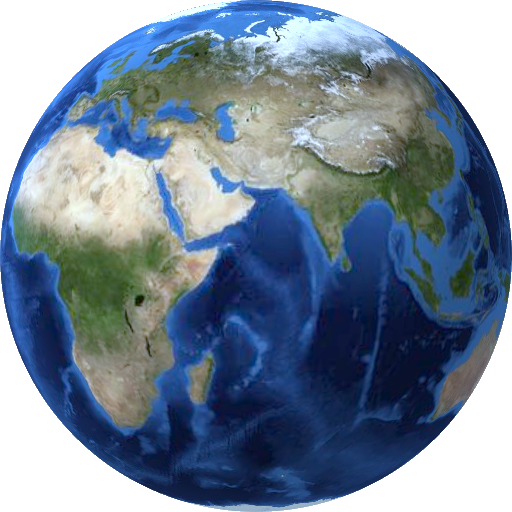
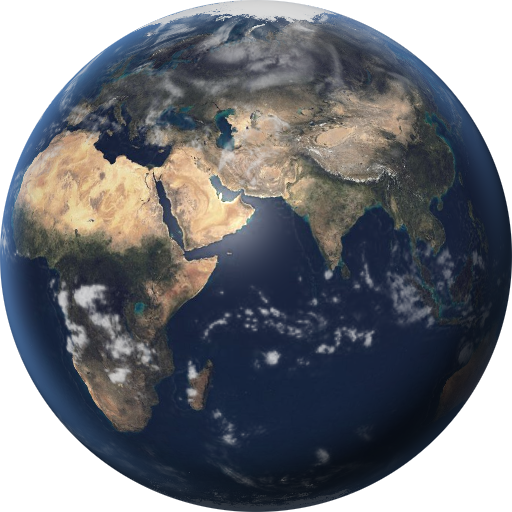
Реалистичная Земля: WebGL, карта поверхности, облака, блик на воде, дымка атмосферы

diff --git a/docs/index.html b/docs/index.html
@@ -1,13 +1,13 @@
 <!DOCTYPE html>
 <html lang="ru">
 <head>
-<meta http-equiv="Content-Security-Policy" content="default-src 'self'; script-src 'self' 'sha256-LUTzErjhHnRrTSoHmUKFDpyNeV/4OUWpXzcFNClkA0I=' 'sha256-yzOm8umFKUw+z6OY0+pDIKJ1qoYWew1WSMKk9chScoY=' 'sha256-ipzCulY10H61LrdNAgkQVf4tczyEXyoHOP65GfBKqf0=' 'sha256-Wf8lqQGZYsiFUJbzxkqj3WrnuC64bcMSBHVcuC52k9w=' 'sha256-syvLtHbgGRd/ctDJcXg+UHjQHI4I6fDriypiguPJXdU=' https://telegram.org; style-src 'self' 'unsafe-inline' https://fonts.googleapis.com; font-src 'self' https://fonts.gstatic.com data:; img-src 'self' data: https://coin-images.coingecko.com https://assets.coingecko.com https://flagcdn.com https://*.githubusercontent.com; connect-src 'self' https://api.gateio.ws wss://api.gateio.ws wss://ws-feed.exchange.coinbase.com wss://ws.kraken.com wss://data-stream.binance.vision https://data-api.binance.vision https://open.er-api.com https://api.coinbase.com https://api.country.is https://get.geojs.io; base-uri 'none'; form-action 'none'; object-src 'none'">
+<meta http-equiv="Content-Security-Policy" content="default-src 'self'; script-src 'self' 'sha256-LUTzErjhHnRrTSoHmUKFDpyNeV/4OUWpXzcFNClkA0I=' 'sha256-yzOm8umFKUw+z6OY0+pDIKJ1qoYWew1WSMKk9chScoY=' 'sha256-y2TdgFmWc310/CcaQSHO7L1AAl0D+/w4s2m3rcRSXTA=' 'sha256-Wf8lqQGZYsiFUJbzxkqj3WrnuC64bcMSBHVcuC52k9w=' 'sha256-syvLtHbgGRd/ctDJcXg+UHjQHI4I6fDriypiguPJXdU=' https://telegram.org; style-src 'self' 'unsafe-inline' https://fonts.googleapis.com; font-src 'self' https://fonts.gstatic.com data:; img-src 'self' data: https://coin-images.coingecko.com https://assets.coingecko.com https://flagcdn.com https://*.githubusercontent.com; connect-src 'self' https://api.gateio.ws wss://api.gateio.ws wss://ws-feed.exchange.coinbase.com wss://ws.kraken.com wss://data-stream.binance.vision https://data-api.binance.vision https://open.er-api.com https://api.coinbase.com https://api.country.is https://get.geojs.io; base-uri 'none'; form-action 'none'; object-src 'none'">
 <meta name="referrer" content="no-referrer">
 
 <meta charset="UTF-8">
 <script>try{if(!matchMedia("(prefers-reduced-motion: reduce)").matches&&!sessionStorage.cr_intro)document.documentElement.classList.add("intro")}catch(e){}</script>
 <script>(function(){try{var m=localStorage.cr_theme||"dark",d=document.documentElement;if(m==="auto")m=matchMedia("(prefers-color-scheme: light)").matches?"light":"dark";d.setAttribute("data-theme",m==="light"?"light":"dark")}catch(e){}})()</script>
-<meta name="app-version" content="84c456f68d">
+<meta name="app-version" content="467da123c5">
 <meta name="viewport" content="width=device-width,initial-scale=1,viewport-fit=cover">
 <meta name="theme-color" content="#000000">
 <title>CIS Rates: курсы валют и крипто СНГ онлайн 24/7</title>
@@ -539,52 +539,62 @@ html[data-theme=light].lite .seg,html[data-theme=light].lite .hdr-btn{background
     const G=Math.round(S*1.7);glow.style.width=glow.style.height=G+'px';glow.style.left=Math.round((vw()-G)/2)+'px';glow.style.top=Math.round(vh()*.42-G/2)+'px'}
   place();
   const wait=p=>Promise.race([p,sleep(2500)]);
-/* Единый рендер Земли: вращение в заставке и статичный значок шапки рисует ЭТА функция.
-   Геометрия (не зависит от поворота) считается один раз на размер; на кадр остаётся только выборка из карты. */
-function makeEarth(T,TW,TH){
-  const gam=new Uint8Array(256);for(let i=0;i<256;i++)gam[i]=Math.min(255,255*Math.pow(i/255,.62));
-  const P=new Uint8ClampedArray(T.length);
-  for(let i=0;i<T.length;i+=4){P[i]=gam[T[i]]*.90;P[i+1]=gam[T[i+1]];P[i+2]=gam[T[i+2]]*1.14;P[i+3]=255}
-  const cache={};
-  function geo(N,latDeg){
-    const key=N+'_'+latDeg;if(cache[key])return cache[key];
-    const n=N*N,lo0=new Float32Array(n),row=new Int32Array(n),fy=new Float32Array(n),sh=new Float32Array(n),rim=new Float32Array(n),al=new Uint8Array(n);
-    const la0=latDeg*Math.PI/180,ca=Math.cos(la0),sa=Math.sin(la0),R=N/2,cc=(N-1)/2;
-    for(let y=0;y<N;y++)for(let x=0;x<N;x++){
-      const X=(x-cc)/R,Y=-(y-cc)/R,r2=X*X+Y*Y,i=y*N+x,rr=Math.sqrt(r2);
-      if(rr>1){continue}
-      const Z=Math.sqrt(Math.max(0,1-r2)),Y2=Y*ca+Z*sa,Z2=-Y*sa+Z*ca;
-      lo0[i]=Math.atan2(X,Z2);const f=(.5-Math.asin(Math.max(-1,Math.min(1,Y2)))/Math.PI)*(TH-1);row[i]=f|0;fy[i]=f-(f|0);
-      const d=Math.max(0,X*-.55+Y*.5+Z*.67);sh[i]=(.78+.46*Math.pow(d,.8))*(1-.22*Math.pow(1-Z,1.5));
-      rim[i]=Math.pow(Math.max(0,Math.min(1,(rr-.78)/.22)),2)*(.30+.70*d)*.5;
-      al[i]=Math.round(Math.max(0,Math.min(1,(1-rr)*R*.9+.5))*255)||1}
-    return cache[key]={lo0,row,fy,sh,rim,al,out:null,N}}
-  return function draw(cv,N,a,latDeg,y0,y1){
-    const G=geo(N,latDeg===undefined?10:latDeg),g=cv.getContext('2d'),r0_=y0===undefined?0:y0,r1_=y1===undefined?N:y1;
-    if(!G.out)G.out=g.createImageData(N,N);const O=G.out.data,{lo0,row,fy,sh,rim,al}=G,n=N*N,K=1/(2*Math.PI);
-    for(let i=r0_*N,iE=r1_*N;i<iE;i++){
-      if(!al[i]){O[i*4+3]=0;continue}
-      let u=lo0[i]*K+.5+a*K;u-=Math.floor(u);
-      const fx=u*(TW-1),x0=fx|0,x1=x0+1<TW?x0+1:0,tx=fx-x0,r0=row[i]*TW,r1=(row[i]+1<TH?row[i]+1:row[i])*TW,ty=fy[i],s=sh[i],rm=rim[i]*255;
-      const a00=(r0+x0)*4,a10=(r0+x1)*4,a01=(r1+x0)*4,a11=(r1+x1)*4,w00=(1-tx)*(1-ty),w10=tx*(1-ty),w01=(1-tx)*ty,w11=tx*ty;
-      const o=i*4;
-      let c=(P[a00]*w00+P[a10]*w10+P[a01]*w01+P[a11]*w11)*s+rm*.314;O[o]=c>255?255:c;
-      c=(P[a00+1]*w00+P[a10+1]*w10+P[a01+1]*w01+P[a11+1]*w11)*s+rm*.588;O[o+1]=c>255?255:c;
-      c=(P[a00+2]*w00+P[a10+2]*w10+P[a01+2]*w01+P[a11+2]*w11)*s+rm;O[o+2]=c>255?255:c;O[o+3]=al[i]}
-    g.putImageData(G.out,0,0)}
+/* Реалистичная Земля на WebGL (один полноэкранный квад, вся математика в фрагментном шейдере).
+   makeEarthGL(canvas, dayImg, wcImg) -> {draw(angle), ok}. Тот же вид и в заставке, и в значке шапки (рисуется этим же кодом). */
+function makeEarthGL(cv,dayImg,wcImg){
+  const gl=cv.getContext('webgl',{alpha:true,antialias:false,premultipliedAlpha:true,preserveDrawingBuffer:true,powerPreference:'low-power'});
+  if(!gl)return null;
+  const vs='attribute vec2 p;varying vec2 v;void main(){v=p;gl_Position=vec4(p,0.,1.);}';
+  const fs=`precision highp float;varying vec2 v;uniform sampler2D D,M;uniform float A,CA,LAT,PX;
+  const float PI=3.14159265;
+  void main(){
+    vec2 q=v;float rr=length(q);
+    float a=clamp((1.-rr)/PX*.9+.5,0.,1.);if(rr>1.+PX){gl_FragColor=vec4(0.);return;}
+    float Z=sqrt(max(0.,1.-rr*rr));vec3 n=vec3(q.x,q.y,Z);
+    float ca=cos(LAT),sa=sin(LAT);float Y2=n.y*ca+n.z*sa,Z2=-n.y*sa+n.z*ca;
+    float lo=atan(n.x,Z2),la=asin(clamp(Y2,-1.,1.));
+    vec2 uv=vec2(fract(lo/(2.*PI)+.5+A/(2.*PI)),.5-la/PI);
+    vec2 uc=vec2(fract(lo/(2.*PI)+.5+CA/(2.*PI)),uv.y);
+    vec3 col=texture2D(D,uv).rgb;vec4 mk=texture2D(M,uv);float water=mk.r;float cloud=texture2D(M,uc).g;
+    vec3 L=normalize(vec3(-.25,.35,.90));float ndl=dot(n,L);float t=clamp((ndl+.12)/.55,0.,1.);float lit=t*t*(3.-2.*t);
+    float lt=.16+.84*lit;
+    col*=lt*(1.-.28*cloud*lit);
+    col=mix(col,vec3(lt),.85*cloud);
+    vec3 H=normalize(L+vec3(0.,0.,1.));float sp=pow(max(0.,dot(n,H)),55.);
+    col+=water*(1.-cloud)*sp*.55*vec3(1.,.96,.88);
+    float rim=pow(clamp((rr-.86)/.14,0.,1.),1.8)*(.25+.75*lit);
+    vec3 at=vec3(.42,.66,1.)*rim*.8;col=1.-(1.-clamp(col,0.,1.))*(1.-at);
+    col*=.80+.20*Z;
+    gl_FragColor=vec4(col*a,a);
+  }`;
+  function sh(t,s){const o=gl.createShader(t);gl.shaderSource(o,s);gl.compileShader(o);if(!gl.getShaderParameter(o,gl.COMPILE_STATUS)){window.__glErr=gl.getShaderInfoLog(o);return null}return o}
+  const pr=gl.createProgram(),a=sh(gl.VERTEX_SHADER,vs),b=sh(gl.FRAGMENT_SHADER,fs);if(!a||!b)return null;
+  gl.attachShader(pr,a);gl.attachShader(pr,b);gl.linkProgram(pr);if(!gl.getProgramParameter(pr,gl.LINK_STATUS))return null;gl.useProgram(pr);
+  const buf=gl.createBuffer();gl.bindBuffer(gl.ARRAY_BUFFER,buf);gl.bufferData(gl.ARRAY_BUFFER,new Float32Array([-1,-1,1,-1,-1,1,1,1]),gl.STATIC_DRAW);
+  const loc=gl.getAttribLocation(pr,'p');gl.enableVertexAttribArray(loc);gl.vertexAttribPointer(loc,2,gl.FLOAT,false,0,0);
+  function tex(img,unit){const t=gl.createTexture();gl.activeTexture(gl.TEXTURE0+unit);gl.bindTexture(gl.TEXTURE_2D,t);
+    gl.pixelStorei(gl.UNPACK_PREMULTIPLY_ALPHA_WEBGL,false);gl.texImage2D(gl.TEXTURE_2D,0,gl.RGBA,gl.RGBA,gl.UNSIGNED_BYTE,img);
+    gl.texParameteri(gl.TEXTURE_2D,gl.TEXTURE_MIN_FILTER,gl.LINEAR);gl.texParameteri(gl.TEXTURE_2D,gl.TEXTURE_MAG_FILTER,gl.LINEAR);
+    gl.texParameteri(gl.TEXTURE_2D,gl.TEXTURE_WRAP_S,gl.REPEAT);gl.texParameteri(gl.TEXTURE_2D,gl.TEXTURE_WRAP_T,gl.CLAMP_TO_EDGE);return t}
+  tex(dayImg,0);tex(wcImg,1);
+  const U=n=>gl.getUniformLocation(pr,n);gl.uniform1i(U('D'),0);gl.uniform1i(U('M'),1);
+  const uA=U('A'),uCA=U('CA'),uLAT=U('LAT'),uPX=U('PX');
+  return {gl,draw(angle,latDeg){gl.viewport(0,0,cv.width,cv.height);gl.clearColor(0,0,0,0);gl.clear(gl.COLOR_BUFFER_BIT);
+    gl.uniform1f(uA,angle);gl.uniform1f(uCA,angle*1.06);gl.uniform1f(uLAT,(latDeg===undefined?12:latDeg)*Math.PI/180);gl.uniform1f(uPX,1/(cv.width/2));gl.drawArrays(gl.TRIANGLE_STRIP,0,4)}};
 }
 
   // ---- вращение настоящей Земли (карта NASA) на canvas: рисуется только пока идёт шкала, затем останавливается на ракурсе значка ----
-  const spin=document.getElementById('introSpin'),REST=60*Math.PI/180,LAT=10;
-  let spinDraw=null,spinA=REST,spinOn=false;
+  const spin=document.getElementById('introSpin'),REST=60*Math.PI/180,LAT=12;
+  let spinGL=null;
   function spinPlace(){if(!spin)return;const S=fly.style;spin.style.width=S.width;spin.style.height=S.height;spin.style.left=S.left;spin.style.top=S.top}
   async function spinInit(){
     if(!spin||cal0)return false;
-    try{const im=new Image();im.src='assets/earthmap.jpg';await im.decode();
-      const tc=document.createElement('canvas');tc.width=1024;tc.height=512;const tx=tc.getContext('2d');tx.drawImage(im,0,0,1024,512);
-      spinDraw=makeEarth(tx.getImageData(0,0,1024,512).data,1024,512);spinDraw(spin,192,REST,LAT);
-      setTimeout(()=>{try{const w=document.createElement('canvas');w.width=w.height=512;spinDraw(w,512,REST,LAT)}catch(e){}},1200);   // прогрев: геометрия и память под финальный кадр 512 готовы заранее, в финале рывка нет
-      return true}catch(e){return false}}
+    try{
+      const ld=src=>new Promise((ok,no)=>{const i=new Image();i.onload=()=>ok(i);i.onerror=no;i.src=src});
+      const [d,m]=await Promise.all([ld('assets/earth-day.jpg'),ld('assets/earth-wc.jpg')]);
+      spin.width=spin.height=512;                                           // сразу полный размер: GPU рисует 512 так же легко, как 192
+      spinGL=makeEarthGL(spin,d,m);if(!spinGL)return false;
+      spinGL.draw(REST,LAT);return true}catch(e){return false}}
   (async function(){
     try{
       // 0) ждём, пока шапка попадёт в DOM
@@ -603,13 +613,11 @@ function makeEarth(T,TW,TH){
       const INTRO_MS=10000;                                                  // сколько секунд идёт заполнение шкалы (меняется одной цифрой)
       const T=cal0?0:INTRO_MS,t0=performance.now();
       const TURNS=1;                                                         // один спокойный оборот за заставку; к концу замедляется и встаёт ровно на ракурс значка
-      let lastDraw=0;
-      let spinFin=null,finRow=0;
       const K0=.85,W=1/(K0+(1-K0)/2),spinQ=k=>{if(k>=1)return 1;if(k<K0)return k*W;const u=k-K0;return W*(K0+u-u*u/(2*(1-K0)))};
       await new Promise(res=>{(function step(){const now=performance.now(),k=T?Math.min(1,(now-t0)/T):1,e=T>3000?k:1-Math.pow(1-k,2);fill.style.transform='scaleX('+e.toFixed(3)+')';pct.lastElementChild.textContent=Math.round(e*100)+'%';
-        if(spinOK&&now-lastDraw>=16){lastDraw=now;spinDraw(spin,192,REST+spinQ(k)*TURNS*2*Math.PI,LAT);if(k>=.95&&finRow<512){if(!spinFin){spinFin=document.createElement('canvas');spinFin.width=spinFin.height=512}spinDraw(spinFin,512,REST,LAT,finRow,Math.min(512,finRow+64));finRow+=64}}   // при k>=.95 скорость уже <6°/с: тяжёлый кадр 512 считаем здесь, а не в момент подмены   // постоянная скорость, в конце плавно до нуля
+        if(spinOK)spinGL.draw(REST+spinQ(k)*TURNS*2*Math.PI,LAT);                                  // каждый кадр: GPU, без ограничения частоты
         k<1?requestAnimationFrame(step):res()})()});
-      if(spinOK){if(!spinFin){spinFin=document.createElement('canvas');spinFin.width=spinFin.height=512}if(finRow<512){spinDraw(spinFin,512,REST,LAT,finRow,512);finRow=512}spin.width=spin.height=512;spin.getContext('2d').drawImage(spinFin,0,0)}      // финальный кадр в полном размере и тем же кодом, что запёк значок: идентичен ему
+      if(spinOK)spinGL.draw(REST,LAT);                                       // финал: ровно ракурс значка (его тоже рисовал этот шейдер)
       await sleep(cal0?0:180);
       place();
       if(spinOK){spin.style.display='none'}                                   // вращение закончено: дальше летит тот же кадр (<img>) на место значка
